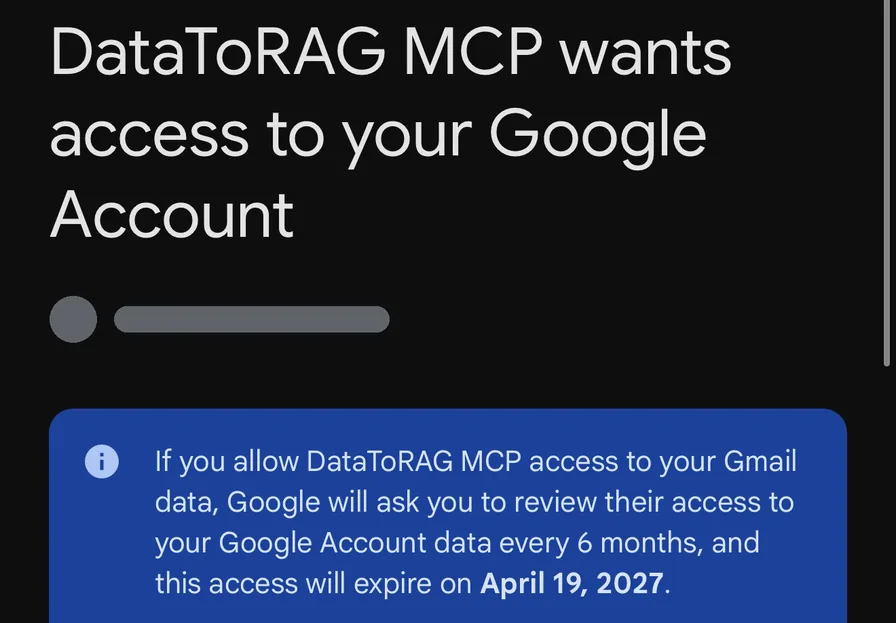
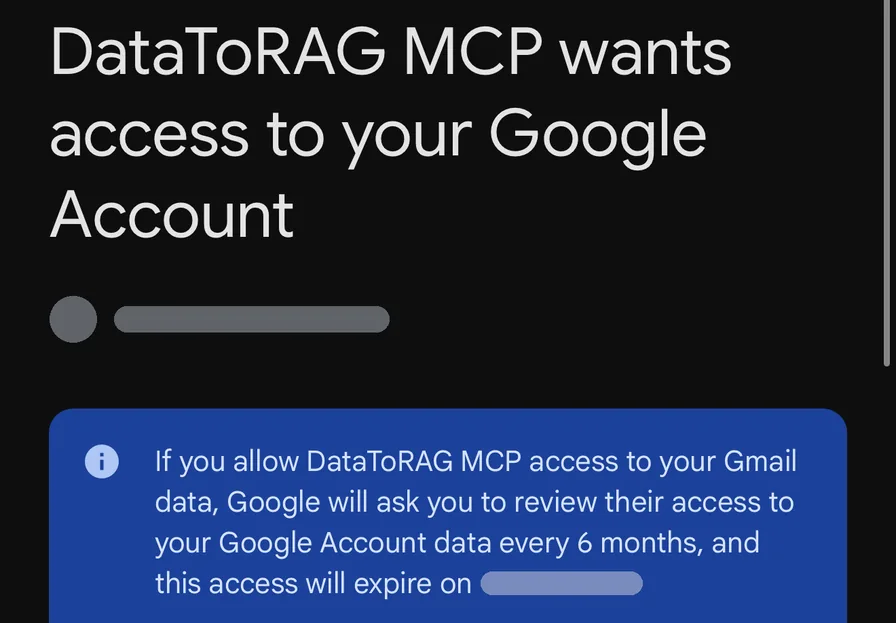
connect: the instruction page carries the connect source through; mask the notice date
The page's Continue now hands on the attribution snapshot the clicked
link carried, by its known names only, the way the modal already does.
The first consent capture no longer shows the expiry date from Google's
notice.

Changed region(s): [[0.5312, 0.9149, 0.75, 0.9759]]

diff --git a/apps/gateway/src/gateway/connect-interstitial.ts b/apps/gateway/src/gateway/connect-interstitial.ts
@@ -17,8 +17,9 @@
  *
  * SCRUM-435 supersedes this page's original choice of a schematic drawing
  * over a screenshot. The steps are now real captures of Google's screen
- * (cropped, the account address redacted), because the real screen teaches
- * better than a drawing of it, and a dated capture is drift we accept: when
+ * (cropped, the account address and the grant's expiry date redacted),
+ * because the real screen teaches better than a drawing of it, and a
+ * capture that ages is drift we accept: when
  * Google repaints, the captures are retaken. They are dark-mode captures
  * shown inside their own dark frame, so they read the same on a light page.
  * On the dashboard the same steps open as a modal over the page the connect
@@ -120,10 +121,23 @@ export const ALL_INTERSTITIAL_COPY = [
 ];
 
 /** The proceed URL: same route, `proceed=1`, the validated-downstream `next`
- * carried through encoded. Built here so route and page cannot drift. */
-export function googleConnectProceedUrl(next: string | null, retry = false): string {
+ * carried through encoded. Built here so route and page cannot drift.
+ *
+ * `carry` is the attribution snapshot the click put on the link, already
+ * parsed to its known wire names by the route. It is read only on the
+ * proceed leg, so the page has to hand it on or a connect made through the
+ * page arrives with no source. */
+export function googleConnectProceedUrl(
+  next: string | null,
+  retry = false,
+  carry: Record<string, string> = {}
+): string {
   const base = retry ? "/auth/google/connect?proceed=1&retry=1" : "/auth/google/connect?proceed=1";
-  return next ? `${base}&next=${encodeURIComponent(next)}` : base;
+  const withNext = next ? `${base}&next=${encodeURIComponent(next)}` : base;
+  const extra = Object.entries(carry)
+    .map(([name, value]) => `&${encodeURIComponent(name)}=${encodeURIComponent(value)}`)
+    .join("");
+  return withNext + extra;
 }
 
 /** Where a refused connect is sent: this page, in its refused form, with the
@@ -163,9 +177,10 @@ export function renderConnectInterstitial(
      * refusal so that page can still say what happened. Composed by the
      * caller from a validated path; escaped here regardless. */
     cancelHref: string;
-  }
+  },
+  carry: Record<string, string> = {}
 ): string {
-  const proceedUrl = googleConnectProceedUrl(next, Boolean(refused));
+  const proceedUrl = googleConnectProceedUrl(next, Boolean(refused), carry);
   const title = refused ? REFUSED_TITLE : INTERSTITIAL_TITLE;
   const explanation = refused ? REFUSED_EXPLANATION : INTERSTITIAL_EXPLANATION;
   const instruction = refused ? REFUSED_INSTRUCTION : INTERSTITIAL_INSTRUCTION;

diff --git a/apps/gateway/src/gateway/auth.ts b/apps/gateway/src/gateway/auth.ts
@@ -20,6 +20,7 @@ import {
 import { sendWelcomeEmail } from "./lifecycle";
 import { notifySignup } from "./signup-alert";
 import { skillSlugFromPath } from "../lib/skills";
+import { parseAttribution, toWireParams } from "../lib/attribution";
 import {
   postLoginDestination,
   resolveNextPath,
@@ -425,6 +426,9 @@ export function createAuthRouter(
     // nothing one-shot (nonce, attribution, next) is stashed for a page view.
     if (req.query.proceed !== "1") {
       const next = typeof req.query.next === "string" ? req.query.next : null;
+      // The attribution snapshot on the clicked link, by its known names
+      // only, handed on to the proceed leg where `stashAttribution` reads it.
+      const carry = toWireParams(parseAttribution(req.query as Record<string, unknown>, { ownHost: req.hostname }));
       // SCRUM-410: the same page in its refused form, where a connect that
       // came back from Google with nothing granted is sent. It names what to
       // tick and its button tries again. "Back" returns to wherever the
@@ -442,11 +446,11 @@ export function createAuthRouter(
                 requestedPath: validNext,
                 error: CONNECT_ERROR_NO_SERVICES,
               }),
-            })
+            }, carry)
           );
         return;
       }
-      res.status(200).type("html").send(renderConnectInterstitial(next));
+      res.status(200).type("html").send(renderConnectInterstitial(next, undefined, carry));
       return;
     }
 

diff --git a/apps/gateway/src/gateway/auth-connect-csrf.test.ts b/apps/gateway/src/gateway/auth-connect-csrf.test.ts
@@ -233,6 +233,30 @@ describe("the interstitial: GET /auth/google/connect without proceed", () => {
     );
   });
 
+  it("carries the attribution snapshot through to the proceed leg, by its known names only", async () => {
+    // The snapshot the click put on the link is read on the proceed leg
+    // alone, so the page has to hand it on.
+    const res = await rawGet(
+      "/auth/google/connect?next=%2Fdashboard&a_sid=s1&a_utm_source=news%20letter&junk=1",
+      SESSION
+    );
+    const html = await res.text();
+    expect(html).toContain(
+      "/auth/google/connect?proceed=1&next=%2Fdashboard&a_sid=s1&a_utm_source=news%20letter"
+    );
+    expect(html).not.toContain("junk");
+  });
+
+  it("an attribution value cannot escape the attribute", async () => {
+    const res = await rawGet(
+      `/auth/google/connect?a_utm_source=${encodeURIComponent('"><script>x</script>')}`,
+      SESSION
+    );
+    const html = await res.text();
+    expect(html).not.toContain("<script>x</script>");
+    expect(html).toContain("%3Cscript%3E");
+  });
+
   it("still requires a session, exactly like the redirect leg", async () => {
     const res = await rawGet("/auth/google/connect");
     expect(res.status).toBe(302);

diff --git a/.claude/skills/codebase-map/SKILL.md b/.claude/skills/codebase-map/SKILL.md
@@ -64,7 +64,7 @@ Three distinct flows — don't conflate them:
 
 1. **MCP client OAuth** (`src/gateway/oauth/`): a full mini authorization server — `metadata.ts` (RFC 8414 authorization-server metadata, `/.well-known/oauth-authorization-server`) + `protected-resource.ts` (RFC 9728 protected-resource metadata at `/.well-known/oauth-protected-resource`, advertising the `/mcp` resource + this gateway as its authorization server; the `/mcp` 401s carry a `WWW-Authenticate: Bearer resource_metadata="…"` header pointing at it, with `error="invalid_token"` on a bad/expired token), `register.ts` (RFC 7591 dynamic registration; **public clients only** — always `token_endpoint_auth_method: "none"`, PKCE is the protection, no client secret is ever issued/verified), `authorize.ts` (redirects to Google; PKCE + client params round-trip through base64url `state`, which also carries a CSRF nonce matched against an httpOnly cookie at `/oauth/callback`; `redirect_uri` is re-validated against the registered client on callback), `token.ts` (PKCE-verified code grant → 24h access + 60d refresh token), `revoke.ts` (RFC 7009; also fires `onRevoked(userId)` so `server.ts` closes the user's live MCP sessions/SSE streams via `closeSessionsForUser` (mcp-session.ts) — DB-side revocation alone can't reach an already-open stream; still-authorized clients just re-init through the 404 path). Every `/oauth/*` endpoint is per-IP rate-limited (`rate-limit.ts`, mounted on the `/oauth` prefix in `server.ts`), keyed on the un-spoofable Cloudflare `CF-Connecting-IP` header — **not** `X-Forwarded-For` (Cloudflare appends to XFF, so its leftmost entry is client-forgeable) — falling back to the TCP peer when that header is absent. Prod sits behind Cloudflare (TLS terminates there; origin listens on `:80`). Refresh tokens rotate within a `familyId`; presenting an already-revoked token revokes the **whole family** (replay detection) **and its live access tokens** (`grants.ts` `revokeAccessTokensForClient`, scoped to `(userId, clientId)` so `"web"` sessions survive). Refresh lookup is row-locked (`.for("update")`) to serialize concurrent refreshes. Raw refresh tokens are never stored — only sha256 hashes. CSRF-nonce helpers live in `oauth/csrf.ts` (`nonceMatches` + shared TTL).
 2. **Dashboard login** (`src/gateway/auth.ts`; since SCRUM-408 every call to action links STRAIGHT to `/auth/google` via `signInHref()` in `src/lib/sign-in.ts`, and `/auth/login` is only the return target for a sign-in that did not finish (`?error=<code>`, never shown) and for the lapsed-session bounces below): `/auth/google` minimal-scope login → `users` row + 1-day session token (stored in `oauthAccessTokens` with `clientId: "web"`) set as httpOnly `dtrmcp_session` cookie. `src/proxy.ts` (Next middleware) gates `/dashboard/*` pages on that cookie, bouncing to `/auth/login?next=<path>`. **Where a login lands is decided in exactly one place**: `postLoginDestination` (`src/gateway/post-login-destination.ts`) as a four-case table (AGENT_DEFAULT_VIEW × new/returning; `signup=1` gates the Ads conversion, `welcome=1` makes an agent landing observable) with the requested `next` path as a case in FRONT of it (SCRUM-71). `next` travels login page → `/auth/google?next=` → short-lived httpOnly `dtr_next` cookie (survives Google's consent trip, same mechanism as attribution) → callback. It is validated INSIDE `postLoginDestination` (`resolveNextPath`: same-origin path only, reject-and-fall-back, since an unvalidated post-login redirect is a phishing primitive), so a caller cannot forget the validation; don't add a second redirect site that bypasses this function.
-3. **Service connections** (what plugins actually use): `/auth/google/connect` (full Workspace scopes), `/auth/atlassian/connect` and `/auth/notion/connect` (SCRUM-366; no scopes, no PKCE, no interstitial; token exchange is HTTP Basic with a JSON body, constants in `notion-oauth.ts`). All three resolve the user from the `dtrmcp_session` cookie and bind the round-trip with a CSRF nonce (a random value in an httpOnly cookie echoed via OAuth `state`) — the session token is **never** placed in `state`. Provider tokens land in `serviceConnections`; multi-account support layers `connectedAccounts` on top (with `isDefault`). `src/gateway/service-token.ts` resolves the per-user token at call time (`PLUGIN_SERVICE_MAP`: `gws-mcp` → `google-workspace`, `atlassian-mcp` → `atlassian`, `notion-mcp` → `notion`; anything else routes through legacy `pluginConnections`), refreshes expired tokens via `REFRESH_FN`, and persists the **new** refresh token for Atlassian and Notion, which rotate on every use. **Notion's refresh is row-locked** (`refreshNotionToken`): Notion lets an old refresh token succeed again until the new access token is first used, killing the newer pair, so two unlocked refreshes leave one caller with a dead token. It reads the row `FOR UPDATE`, uses the stored access token if the refresh token already moved, calls Notion and writes the new pair inside the lock, and on `invalid_grant` re-reads (locked) before calling the grant dead. Notion sends no `expires_in`, rows store a null expiry, so nothing calls it on a request path yet. `REVOKE_FN` entries take both tokens and choose (Google: refresh, else access; Notion: both). **Several accounts under one email (SCRUM-366, migration 0022)**: `connected_accounts.external_account_id` (a Notion workspace id; null for Google and Atlassian) is in the unique key NULLS NOT DISTINCT, `upsertServiceAccount` matches on it with `IS NOT DISTINCT FROM` and stores the workspace name as `label`. The `account` argument matches the email, and on a row with an external id also its label or id; a value matching more than one row comes back as `AmbiguousAccount` and the CallTool dispatch refuses it with the choices (`ambiguousAccountMessage`), never picks one. `list_connected_accounts` shows `workspace`/`workspace_id`. The resolved token is forwarded to the plugin as the `X-User-Token` header. **Scope-grant honesty (SCRUM-136)**: Google's consent screen lets a user untick individual scopes, so `src/gateway/scope-grant.ts` is the ONE place that compares a stored grant against `GWS_SCOPE_LIST` (which lives there; `auth.ts` joins it for the redirect) — it owns the alias table (Google stores `userinfo.email` long-form for our `email` request; naive comparison marks every FULL grant partial), the tool-prefix→scope map, and the worded messages. Consumers get the finished delta, never a scope array: the connect callback records `grant_complete`/`missing_scopes` on `account_connected` and appends `partial`/`missing` to the redirect; `/api/connections` returns `scopeStatus` per row; the ONE call path (`mcp-server.ts` CallTool — since SCRUM-188 the agent goes through it too, with a constructor `surface` hint that only changes refusal WORDING) pre-checks the needed scope before dispatch (refusal metered with the `[missing-scope]` marker) and rewrite Google insufficient-scope 403s into words + a reconnect path — raw error in the usage row, words to the user. Everything fails OPEN (null/legacy scopes, unmapped tools like `gws_run`) — a wrong block refuses work the user could do; a miss just reproduces the old behaviour, caught by the 403 rewrite. **Per-service visibility (SCRUM-106)** sits on top: `serviceGrantStates` in the same module turns the delta into the per-service list (`{displayName, iconKey, granted}`, no scope URLs) that `/api/connections` ships as `scopeStatus.services`; `src/app/dashboard/connections/grant-state.ts` derives the ONE connection-level state (complete / partial / none / disconnected — per-service "partial" cannot exist, each service is one scope) that the card badge and `grant-panel.tsx` both render from; `GrantPanel` is the single component behind the connections page, the service detail page and the agent's in-thread card (compact, fed by `ConnectGrantContext` at render time, never stored in the `data-connect` part). All-declined renders one sentence and one reconnect anchor, never a row per service; raw scopes live only behind a closed `<details>`. It absorbed the SCRUM-136 one-line banner. **Zero-grant gate (SCRUM-149)**: SCRUM-136 was detection; this is prevention. The Google connect callback REFUSES a consent positively observed to cover zero services — `tokens.scope` present and `grantedServiceCount === 0` — writing neither `service_connections` nor `connected_accounts` (which also means a zero re-consent can never clobber a working grant), skipping the userinfo fetch, and redirecting with `error`/`connect_error=no_services_granted` (`CONNECT_ERROR_NO_SERVICES` in `post-connect-destination.ts`, the one exported spelling). `account_connected` does NOT fire for a refusal — `account_connect_refused` does (`trackConnectRefused`), so the funnel keeps its meaning and the drop-off stays measurable. Fail-open is untouched: a response with no scope field is stored exactly as before, and Atlassian (no per-scope opt-out) is never gated. Landing surfaces split zero from partial: the agent page picks words via `connectErrorNotice` (zero gets `CONNECT_ZERO_GRANT_NOTICE`, naming "Select all"); the dashboard renders `ConnectOutcomeNotice` with a retry anchor — possible only because the retired `/dashboard/connections` index now FORWARDS its query string (`connectionsForwardPath`) instead of dropping every outcome param on the fallback leg. Partial grants (at least one service) are stored and marked exactly as SCRUM-136 shipped. Pinned in `auth-connect-grant.test.ts`, both directions, mutation-proven. **Consent interstitial (SCRUM-150)**: the failure SCRUM-149 records happens on Google's screen, where we control nothing, so the only lever is the moment before the handoff — held at the CHOKE POINT, not on the controls: `GET /auth/google/connect` without `proceed=1` renders a self-contained Express instruction page (`connect-interstitial.ts`: boxes come unticked, "Select all" named, the real Google screens as cropped captures in `public/connect` with the account address redacted and a "tick this first" mark drawn over the Select all row (SCRUM-435 replaced the original schematic; retake the captures when Google repaints), light/dark via prefers-color-scheme) whose Continue link is the same route with `proceed=1` and the encoded `next` carried through; the proceed leg is byte-identical to the old flow, and nothing one-shot (nonce, attribution, next cookie) is stashed for a page view. Every connect surface — cards, detail page, agent in-thread card, docs links, the SCRUM-149 retry — passes through without knowing it exists. On the dashboard the same steps open as a modal instead (`dashboard/google-connect-modal.tsx`, mounted once by the dashboard layout): a document click listener takes a plain click on any link to the route without `proceed`/`refused`, and its Continue is the clicked URL plus `proceed=1`, so `next` and the attribution snapshot ride through. New tabs, modified clicks and everything outside the dashboard still get the page. Atlassian deliberately has none (no per-scope opt-out). The full-scope request is pinned by test: the fix for consent drop-off is instruction, never silently narrowing the request (per HQ decision, see SCRUM-136/149). **Default-account rule (SCRUM-145)**: nothing used to move `is_default` after first connect, so a first identity-only consent kept the default forever and every argument-less call resolved to a grant that could serve nothing — the SCRUM-136 refusal then survived the user complying with it. Now `ensureUsableDefault` (`connected-accounts.ts`) runs after every `upsertServiceAccount`: a default covering at least one service is NEVER moved (a narrow default can be a deliberate choice), a default covering zero yields to the widest grant, tie-broken by most recent grant activity; `promoteNextDefault` ranks disconnect promotions the same way (usable first, then oldest). The ranking primitive is `grantedServiceCount` (`scope-grant.ts`), fail-open like the rest of that module — null/legacy scopes and non-Google connectors score as fully usable, so nothing can demote a connection the module cannot read. Deliberately NOT scope-aware per-call resolution: the account a call runs as must stay predictable, or a fixed read becomes a silent cross-account WRITE (the SCRUM-120 hazard). The other half is refusal honesty: when the pre-call gate refuses, both surfaces name the account they judged and any other connected account that does hold the scope (`accountsGrantingScope` + `missingScopeMessage`'s `accountEmail`/`alternates`; the agent wording steers to the inline reconnect control it can render, the MCP wording offers the `account` parameter (since SCRUM-188 the agent forwards `account` too — the server resolves only the session user's own accounts)). And the legacy no-`connected_accounts` fallback is ordered (widest scopes, then newest, then id) instead of heap order. Pinned end to end by `default-account.test.ts` (real Postgres, mutation-proven). **The user-facing control (SCRUM-147)**: MCP-surface scope refusals deep-link `/dashboard/connections/<service>` (the bare connections URL redirects to the overview, which used to be a page WITHOUT the switch), and both account-list surfaces render `SetDefaultControl` + `BetterDefaultSuggestion` from `src/app/dashboard/connections/default-control.tsx` — one shared control, two-step in-flow confirmation naming the consequence (never a popover: dashboard `main` clips inline floating elements), server re-fetch on success, never optimistic. `suggestBetterDefault` (`grant-state.ts`) is the UI mirror of the server rule: suggest only off a zero-grant default toward a RECORDED complete sibling. A single-account user gets no switch control at all — their remedy is the GrantPanel reconnect, not a disabled button. And a null-scope row on the audit surface says `GRANT_UNRECORDED` instead of "Every service was granted": fail-open "complete" is policy, not a reading, and must not become a positive claim. Both connect flows honour a validated `?next=` (SCRUM-78): parked in the httpOnly `dtr_connect_next` cookie for the round trip, composed and re-validated in `postConnectDestination` (`src/gateway/post-connect-destination.ts`, same reject-and-fall-back discipline as `postLoginDestination`, including re-validating the COMPOSED path), landing back on the requested path with `connected=<provider>` or `connect_error=<code>` appended — the mechanism that returns the agent's inline connect control to its thread. That file also records the popup-vs-redirect decision; the fallback destinations are byte-identical to the old hardcoded connections-page redirects.
+3. **Service connections** (what plugins actually use): `/auth/google/connect` (full Workspace scopes), `/auth/atlassian/connect` and `/auth/notion/connect` (SCRUM-366; no scopes, no PKCE, no interstitial; token exchange is HTTP Basic with a JSON body, constants in `notion-oauth.ts`). All three resolve the user from the `dtrmcp_session` cookie and bind the round-trip with a CSRF nonce (a random value in an httpOnly cookie echoed via OAuth `state`) — the session token is **never** placed in `state`. Provider tokens land in `serviceConnections`; multi-account support layers `connectedAccounts` on top (with `isDefault`). `src/gateway/service-token.ts` resolves the per-user token at call time (`PLUGIN_SERVICE_MAP`: `gws-mcp` → `google-workspace`, `atlassian-mcp` → `atlassian`, `notion-mcp` → `notion`; anything else routes through legacy `pluginConnections`), refreshes expired tokens via `REFRESH_FN`, and persists the **new** refresh token for Atlassian and Notion, which rotate on every use. **Notion's refresh is row-locked** (`refreshNotionToken`): Notion lets an old refresh token succeed again until the new access token is first used, killing the newer pair, so two unlocked refreshes leave one caller with a dead token. It reads the row `FOR UPDATE`, uses the stored access token if the refresh token already moved, calls Notion and writes the new pair inside the lock, and on `invalid_grant` re-reads (locked) before calling the grant dead. Notion sends no `expires_in`, rows store a null expiry, so nothing calls it on a request path yet. `REVOKE_FN` entries take both tokens and choose (Google: refresh, else access; Notion: both). **Several accounts under one email (SCRUM-366, migration 0022)**: `connected_accounts.external_account_id` (a Notion workspace id; null for Google and Atlassian) is in the unique key NULLS NOT DISTINCT, `upsertServiceAccount` matches on it with `IS NOT DISTINCT FROM` and stores the workspace name as `label`. The `account` argument matches the email, and on a row with an external id also its label or id; a value matching more than one row comes back as `AmbiguousAccount` and the CallTool dispatch refuses it with the choices (`ambiguousAccountMessage`), never picks one. `list_connected_accounts` shows `workspace`/`workspace_id`. The resolved token is forwarded to the plugin as the `X-User-Token` header. **Scope-grant honesty (SCRUM-136)**: Google's consent screen lets a user untick individual scopes, so `src/gateway/scope-grant.ts` is the ONE place that compares a stored grant against `GWS_SCOPE_LIST` (which lives there; `auth.ts` joins it for the redirect) — it owns the alias table (Google stores `userinfo.email` long-form for our `email` request; naive comparison marks every FULL grant partial), the tool-prefix→scope map, and the worded messages. Consumers get the finished delta, never a scope array: the connect callback records `grant_complete`/`missing_scopes` on `account_connected` and appends `partial`/`missing` to the redirect; `/api/connections` returns `scopeStatus` per row; the ONE call path (`mcp-server.ts` CallTool — since SCRUM-188 the agent goes through it too, with a constructor `surface` hint that only changes refusal WORDING) pre-checks the needed scope before dispatch (refusal metered with the `[missing-scope]` marker) and rewrite Google insufficient-scope 403s into words + a reconnect path — raw error in the usage row, words to the user. Everything fails OPEN (null/legacy scopes, unmapped tools like `gws_run`) — a wrong block refuses work the user could do; a miss just reproduces the old behaviour, caught by the 403 rewrite. **Per-service visibility (SCRUM-106)** sits on top: `serviceGrantStates` in the same module turns the delta into the per-service list (`{displayName, iconKey, granted}`, no scope URLs) that `/api/connections` ships as `scopeStatus.services`; `src/app/dashboard/connections/grant-state.ts` derives the ONE connection-level state (complete / partial / none / disconnected — per-service "partial" cannot exist, each service is one scope) that the card badge and `grant-panel.tsx` both render from; `GrantPanel` is the single component behind the connections page, the service detail page and the agent's in-thread card (compact, fed by `ConnectGrantContext` at render time, never stored in the `data-connect` part). All-declined renders one sentence and one reconnect anchor, never a row per service; raw scopes live only behind a closed `<details>`. It absorbed the SCRUM-136 one-line banner. **Zero-grant gate (SCRUM-149)**: SCRUM-136 was detection; this is prevention. The Google connect callback REFUSES a consent positively observed to cover zero services — `tokens.scope` present and `grantedServiceCount === 0` — writing neither `service_connections` nor `connected_accounts` (which also means a zero re-consent can never clobber a working grant), skipping the userinfo fetch, and redirecting with `error`/`connect_error=no_services_granted` (`CONNECT_ERROR_NO_SERVICES` in `post-connect-destination.ts`, the one exported spelling). `account_connected` does NOT fire for a refusal — `account_connect_refused` does (`trackConnectRefused`), so the funnel keeps its meaning and the drop-off stays measurable. Fail-open is untouched: a response with no scope field is stored exactly as before, and Atlassian (no per-scope opt-out) is never gated. Landing surfaces split zero from partial: the agent page picks words via `connectErrorNotice` (zero gets `CONNECT_ZERO_GRANT_NOTICE`, naming "Select all"); the dashboard renders `ConnectOutcomeNotice` with a retry anchor — possible only because the retired `/dashboard/connections` index now FORWARDS its query string (`connectionsForwardPath`) instead of dropping every outcome param on the fallback leg. Partial grants (at least one service) are stored and marked exactly as SCRUM-136 shipped. Pinned in `auth-connect-grant.test.ts`, both directions, mutation-proven. **Consent interstitial (SCRUM-150)**: the failure SCRUM-149 records happens on Google's screen, where we control nothing, so the only lever is the moment before the handoff — held at the CHOKE POINT, not on the controls: `GET /auth/google/connect` without `proceed=1` renders a self-contained Express instruction page (`connect-interstitial.ts`: boxes come unticked, "Select all" named, the real Google screens as cropped captures in `public/connect` with the account address and the expiry date in Google's notice redacted and a "tick this first" mark drawn over the Select all row (SCRUM-435 replaced the original schematic; retake the captures when Google repaints), light/dark via prefers-color-scheme) whose Continue link is the same route with `proceed=1` and the encoded `next` carried through; the proceed leg is byte-identical to the old flow, and nothing one-shot (nonce, attribution, next cookie) is stashed for a page view. Every connect surface — cards, detail page, agent in-thread card, docs links, the SCRUM-149 retry — passes through without knowing it exists. On the dashboard the same steps open as a modal instead (`dashboard/google-connect-modal.tsx`, mounted once by the dashboard layout): a document click listener takes a plain click on any link to the route without `proceed`/`refused`, and its Continue is the clicked URL plus `proceed=1`, so `next` and the attribution snapshot ride through. New tabs, modified clicks and everything outside the dashboard still get the page. Atlassian deliberately has none (no per-scope opt-out). The full-scope request is pinned by test: the fix for consent drop-off is instruction, never silently narrowing the request (per HQ decision, see SCRUM-136/149). **Default-account rule (SCRUM-145)**: nothing used to move `is_default` after first connect, so a first identity-only consent kept the default forever and every argument-less call resolved to a grant that could serve nothing — the SCRUM-136 refusal then survived the user complying with it. Now `ensureUsableDefault` (`connected-accounts.ts`) runs after every `upsertServiceAccount`: a default covering at least one service is NEVER moved (a narrow default can be a deliberate choice), a default covering zero yields to the widest grant, tie-broken by most recent grant activity; `promoteNextDefault` ranks disconnect promotions the same way (usable first, then oldest). The ranking primitive is `grantedServiceCount` (`scope-grant.ts`), fail-open like the rest of that module — null/legacy scopes and non-Google connectors score as fully usable, so nothing can demote a connection the module cannot read. Deliberately NOT scope-aware per-call resolution: the account a call runs as must stay predictable, or a fixed read becomes a silent cross-account WRITE (the SCRUM-120 hazard). The other half is refusal honesty: when the pre-call gate refuses, both surfaces name the account they judged and any other connected account that does hold the scope (`accountsGrantingScope` + `missingScopeMessage`'s `accountEmail`/`alternates`; the agent wording steers to the inline reconnect control it can render, the MCP wording offers the `account` parameter (since SCRUM-188 the agent forwards `account` too — the server resolves only the session user's own accounts)). And the legacy no-`connected_accounts` fallback is ordered (widest scopes, then newest, then id) instead of heap order. Pinned end to end by `default-account.test.ts` (real Postgres, mutation-proven). **The user-facing control (SCRUM-147)**: MCP-surface scope refusals deep-link `/dashboard/connections/<service>` (the bare connections URL redirects to the overview, which used to be a page WITHOUT the switch), and both account-list surfaces render `SetDefaultControl` + `BetterDefaultSuggestion` from `src/app/dashboard/connections/default-control.tsx` — one shared control, two-step in-flow confirmation naming the consequence (never a popover: dashboard `main` clips inline floating elements), server re-fetch on success, never optimistic. `suggestBetterDefault` (`grant-state.ts`) is the UI mirror of the server rule: suggest only off a zero-grant default toward a RECORDED complete sibling. A single-account user gets no switch control at all — their remedy is the GrantPanel reconnect, not a disabled button. And a null-scope row on the audit surface says `GRANT_UNRECORDED` instead of "Every service was granted": fail-open "complete" is policy, not a reading, and must not become a positive claim. Both connect flows honour a validated `?next=` (SCRUM-78): parked in the httpOnly `dtr_connect_next` cookie for the round trip, composed and re-validated in `postConnectDestination` (`src/gateway/post-connect-destination.ts`, same reject-and-fall-back discipline as `postLoginDestination`, including re-validating the COMPOSED path), landing back on the requested path with `connected=<provider>` or `connect_error=<code>` appended — the mechanism that returns the agent's inline connect control to its thread. That file also records the popup-vs-redirect decision; the fallback destinations are byte-identical to the old hardcoded connections-page redirects.
 
    **After a refusal (SCRUM-410)**: the zero-grant gate no longer redirects to the page the connect started from. It redirects to the SAME instruction page in its refused form (`/auth/google/connect?refused=1&next=…`, `googleConnectRefusedUrl`), which says nothing was connected, names the services from `serviceGrantStates`, and whose one button is Try again (`proceed=1&retry=1`); its Back link is the old destination from `postConnectDestination` with the refusal code, so the landing notices still work. Two more things happen in that branch: the Google account that was tried is read from the token response's `id_token` (unverified, a hint only, no userinfo call) into the httpOnly `gws_connect_hint` cookie, which the retry leg alone turns into `login_hint` with `prompt=consent` so Google skips its account chooser, and which EVERY connect start clears; and `users.connect_helper_dismissed_at` is set back to NULL. That column is the per-user memory of the one-line note under Google connect buttons (`ConnectHelper`, `dashboard/connect-helper.tsx`; dismissed through `POST /api/me/connect-helper`, read as a boolean on `/api/me`): a preference, never read by anything that decides access.
 4. **API keys** (SCRUM-245, `src/gateway/bearer-auth.ts`): the machine credential. Minted from `/dashboard/api-keys` (routes under `/api/keys`), one user, at most ten live, shown once, stored as a sha256 hash plus a display prefix, revocable with effect on the next request. Accepted on `/mcp` as a Bearer exactly like an access token, told apart by the fixed `sk-dtrmcp_` prefix, with no refresh and no rotation, because the single-use refresh tokens above kill any client that does not persist rotation. Same MCP server, classification, approval policy and metering; tool calls carry `client_id: api-key`, the session event carries `auth_kind`. The raw key never reaches a log or an event, and `usage/redact.ts` masks its shape. The `api_keys` table predates its migration in production; `0017_api_keys.sql` creates it idempotently for a fresh environment.
